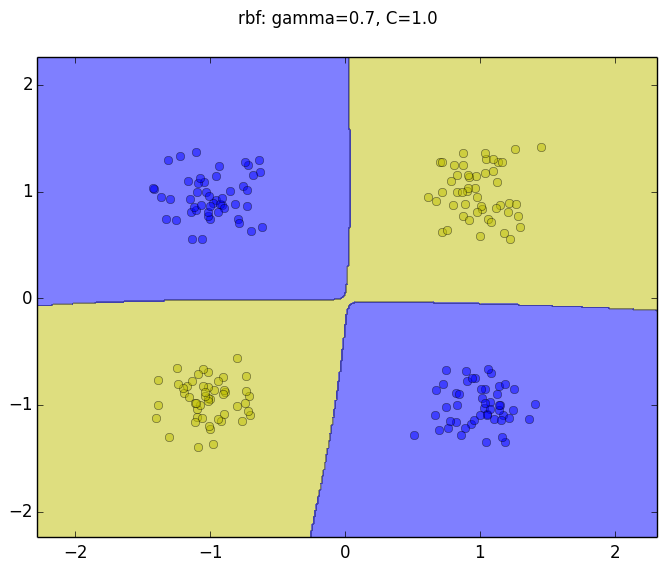
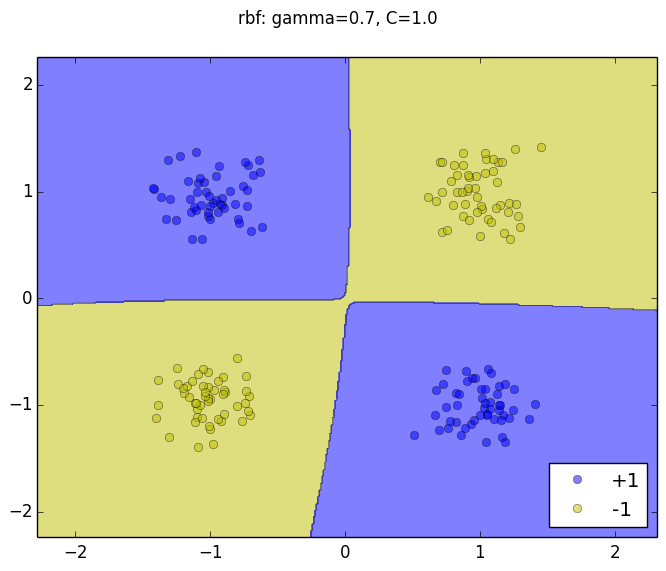
3.4: changed the plots

Changed region(s): [[0.8108, 0.8039, 0.991, 0.9527]]

diff --git a/Project 3/Task 3.4/task3.4_subtask2.py b/Project 3/Task 3.4/task3.4_subtask2.py
@@ -48,16 +48,20 @@ def predict_and_plot(X, y, clf_tuple):
     Z = clf.predict(np.c_[x1x1.ravel(), x2x2.ravel()])
     print 'this is support vector = ', clf.support_vectors_, ' for ', description
     Z = Z.reshape(x1x1.shape)
-    # axs.contourf(x1x1, x2x2, Z, cmap=plt.cm.coolwarm, alpha=0.5)
     axs.contourf(x1x1, x2x2, Z, colors=('y', 'b'), alpha=0.5)
 
     XY = np.vstack((X.T, y.T)).T
     X_pos = XY[XY[:, 2] > 0][:, 0:2]
     X_neg = XY[XY[:, 2] < 0][:, 0:2]
 
+    # # uncomment to plot svm points
+    # svm_vectors = clf.support_vectors_
+    # plt.plot(svm_vectors[:, 0], svm_vectors[:, 1], 'go', label='svm', alpha=0.5)
+
     # plot data
-    plt.plot(X_pos[:, 0], X_pos[:, 1], 'bo', label='+1 (train data)', alpha=0.5)
-    plt.plot(X_neg[:, 0], X_neg[:, 1], 'yo', label='-1 (train data)', alpha=0.5)
+    plt.plot(X_pos[:, 0], X_pos[:, 1], 'bo', label='+1', alpha=0.5)
+    plt.plot(X_neg[:, 0], X_neg[:, 1], 'yo', label='-1', alpha=0.5)
+    plt.legend(loc="lower right", numpoints=1)
 
     global plot_dir
     output_file = '.'.join([description.replace(' ', '_').
